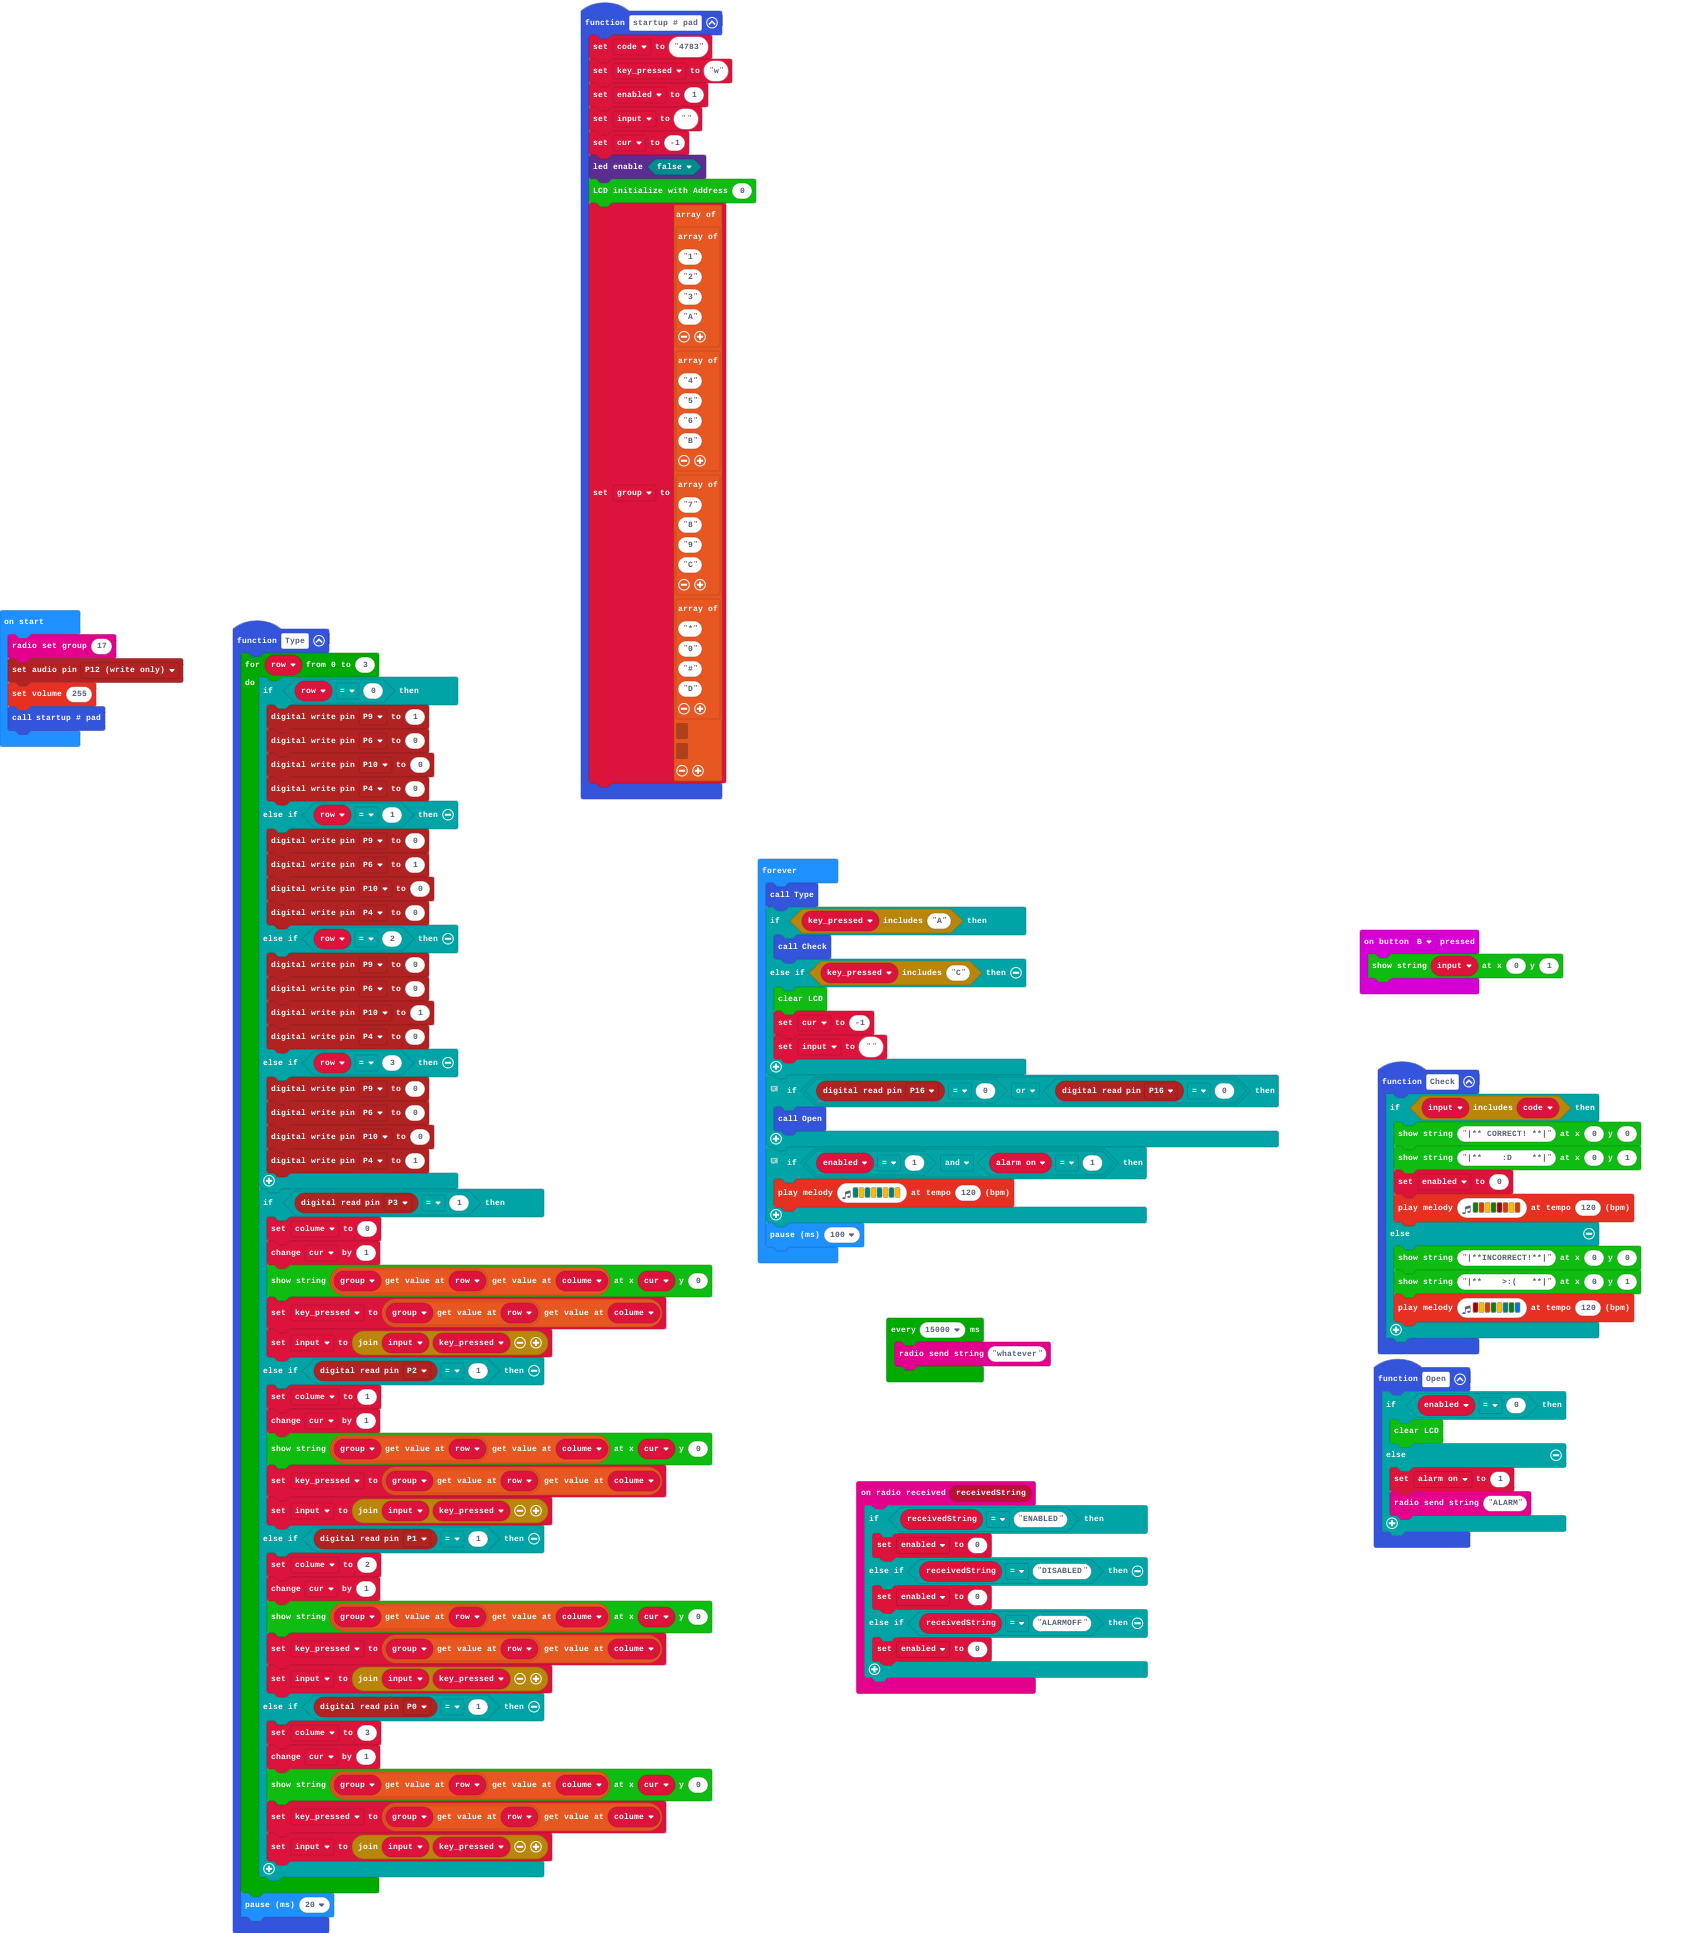
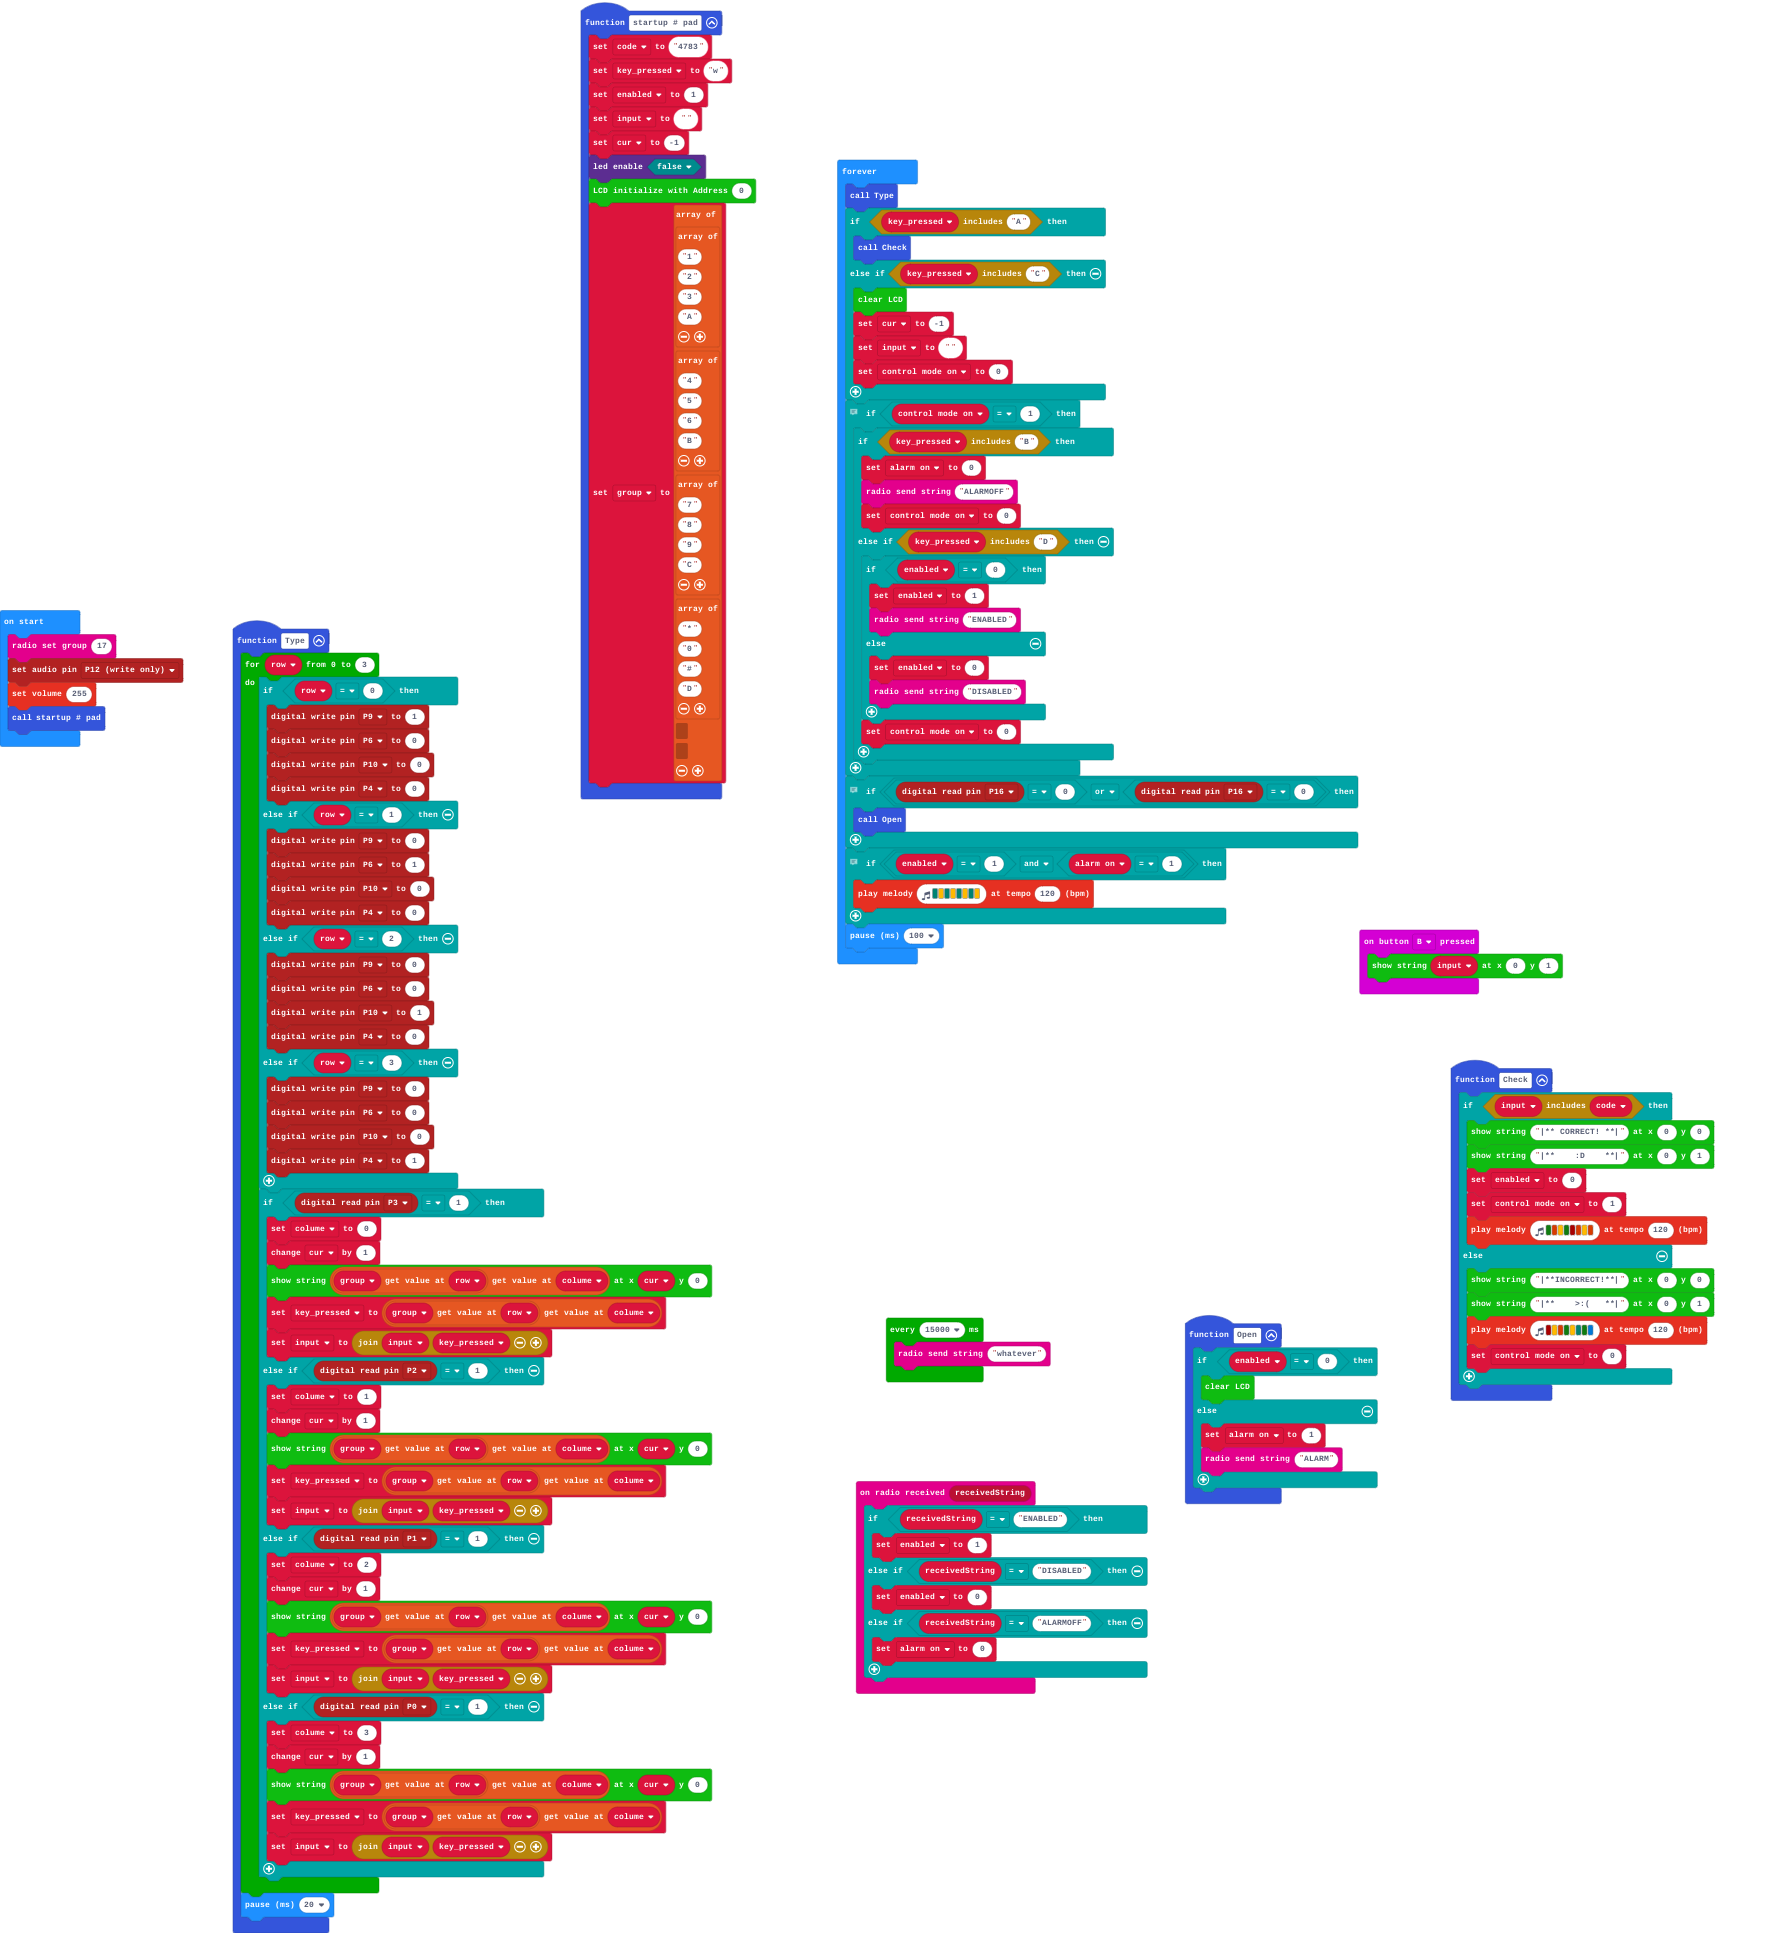
Update pxt.json, main.blocks, main.ts

diff --git a/main.ts b/main.ts
@@ -62,11 +62,13 @@ function Check () {
         I2C_LCD1602.ShowString("|** CORRECT! **|", 0, 0)
         I2C_LCD1602.ShowString("|**    :D    **|", 0, 1)
         enabled = 0
+        control_mode_on = 1
         music.playMelody("G B A G C5 B A B ", 120)
     } else {
         I2C_LCD1602.ShowString("|**INCORRECT!**|", 0, 0)
         I2C_LCD1602.ShowString("|**    >:(   **|", 0, 1)
         music.playMelody("C5 A B G A F G E ", 120)
+        control_mode_on = 0
     }
 }
 function startup__pad () {
@@ -106,16 +108,17 @@ function startup__pad () {
 }
 radio.onReceivedString(function (receivedString) {
     if (receivedString == "ENABLED") {
-        enabled = 0
+        enabled = 1
     } else if (receivedString == "DISABLED") {
         enabled = 0
     } else if (receivedString == "ALARMOFF") {
-        enabled = 0
+        alarm_on = 0
     }
 })
 input.onButtonPressed(Button.B, function () {
     I2C_LCD1602.ShowString(input2, 0, 1)
 })
+let control_mode_on = 0
 let code = ""
 let alarm_on = 0
 let enabled = 0
@@ -139,6 +142,24 @@ basic.forever(function () {
         I2C_LCD1602.clear()
         cur = -1
         input2 = ""
+        control_mode_on = 0
+    }
+    // this will allow the user to turn on or off the alarms only after they put in the correct code
+    if (control_mode_on == 1) {
+        if (key_pressed.includes("B")) {
+            alarm_on = 0
+            radio.sendString("ALARMOFF")
+            control_mode_on = 0
+        } else if (key_pressed.includes("D")) {
+            if (enabled == 0) {
+                enabled = 1
+                radio.sendString("ENABLED")
+            } else {
+                enabled = 0
+                radio.sendString("DISABLED")
+            }
+            control_mode_on = 0
+        }
     }
     // detects if a system is open and sends alarm
     // 
